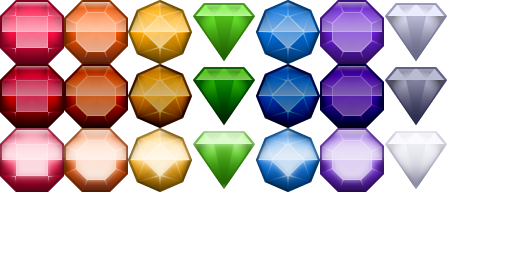
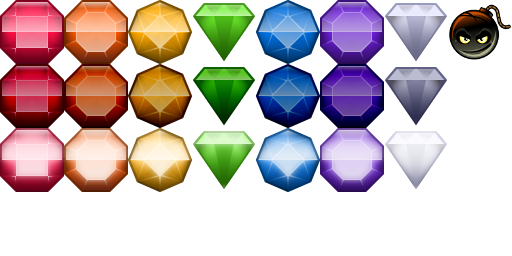
Bombs!

Changed region(s): [[0.875, 0.0, 1.0, 0.25]]

diff --git a/gem_manager.cpp b/gem_manager.cpp
@@ -35,6 +35,8 @@ void GemManager::reset()
 		}
 	}
 	score = 0;
+	// do not spawn a bomb too soon? change to a greater value
+	latestBomb = 0;
 	setState(State::WAITING);
 }
 
@@ -50,6 +52,9 @@ void GemManager::click(const sf::Vector2f& spos)
 	if (state != State::WAITING && state != State::SELECTED) return;
 	for (auto& gem : gems) {
 		if (gem.checkHit(spos)) {
+			if (gem.getColor() == Gem::Color::BOMB) {
+				return explode(&gem);
+			}
 			if (state == State::SELECTED) {
 				clearPossibleMatch();
 				sel2 = gem.getRow() * cols + gem.getCol();
@@ -73,6 +78,11 @@ void GemManager::update()
 	if (state == State::WAITING) {
 		for (auto& gem : gems) {
 			if (gem.getStatus() == Gem::Status::NEW) gem.setStatus(Gem::Status::NONE);
+		}
+		// Spawn a bomb every pointsPerBomb points
+		if (score / pointsPerBomb > latestBomb) {
+			latestBomb = score / pointsPerBomb;
+			gems[(rand()%rows)*cols + (rand()%cols)].setColor(Gem::Color::BOMB);
 		}
 		int m = match();
 		if (m > 0) {
@@ -262,4 +272,16 @@ void GemManager::clearPossibleMatch()
 {
 	for (auto &gem : gems)
 		gem.setPossibleMatch(false);
+}
+
+void GemManager::explode(Gem* gem)
+{
+	for(int r = gem->getRow()-1; r < gem->getRow()+2; ++r) {
+		for(int c = gem->getCol()-1; c < gem->getCol()+2; ++c) {
+			if (c >= 0 && c < cols && r >=0 and r < rows) {
+				gems[r * cols + c].setStatus(Gem::Status::MATCH);
+			}
+		}
+	}
+	setState(State::MOVING);
 }

diff --git a/gem.hpp b/gem.hpp
@@ -7,7 +7,7 @@ class Gem
 public:
 	enum class Color : int
 	{
-		RED = 0, ORANGE = 1, YELLOW = 2, GREEN = 3, BLUE = 4, PURPLE = 5, WHITE = 6
+		RED = 0, ORANGE = 1, YELLOW = 2, GREEN = 3, BLUE = 4, PURPLE = 5, WHITE = 6, BOMB = 7
 	};
 
 	enum class Status : int
@@ -26,6 +26,7 @@ public:
 	int getCol() const { return col; }
 	int getRow() const { return row; }
 	Color getColor() const { return color; }
+	void setColor(Color color) { this->color = color; }
 	Status getStatus() const { return status; }
 	void setStatus(Status status);
 	void setPossibleMatch(bool value) { possibleMatch = value; }

diff --git a/gem_manager.hpp b/gem_manager.hpp
@@ -21,6 +21,7 @@ public:
 
 	static constexpr int rows = 8;
 	static constexpr int cols = 8;
+	static constexpr int pointsPerBomb = 50;
 
 	int getScore() const { return score; }
 
@@ -38,6 +39,7 @@ private:
 	void replaceDeleted();
 	bool checkMatch3(Gem* gem1, Gem* gem2, Gem* gem3, bool show);
 	void clearPossibleMatch();
+	void explode(Gem* gem);
 
 	vector<Gem>  gems;
 	sf::Texture  texture;
@@ -45,5 +47,6 @@ private:
 	size_t       sel2;
 	State        state;
 	int          score;
+	int          latestBomb;
 
 };

diff --git a/readme.md b/readme.md
@@ -25,7 +25,7 @@ make
 
 ## Authors
 
-* **Paulo Assis**
+* [Paulo Assis](https://github.com/Ottani)
 
 ## License
 
@@ -35,4 +35,5 @@ TBD
 
 * Inspired on [FamTrinli](https://www.youtube.com/channel/UCC7qpnId5RIQruKDJOt2exw)'s Youtube video [Let's make 16 games in C++: Bejeweled (Match-3)](https://youtu.be/YNXrFOynalE).
 * Gems images by [GameArtForge](https://opengameart.org/users/gameartforge) at [OpenGameArt.org](https://opengameart.org/content/gems-set-01).
+* Bomb images by [SpriteAttack](https://opengameart.org/users/spriteattack) at (OpenGameArt.org)(https://opengameart.org/content/emotional-explosives)
 * Background image from [MontanaDiva](https://pixabay.com/en/users/MontanaDiva-1981003/) at [PixaBay](https://pixabay.com/en/background-orange-blue-green-1247931/).
